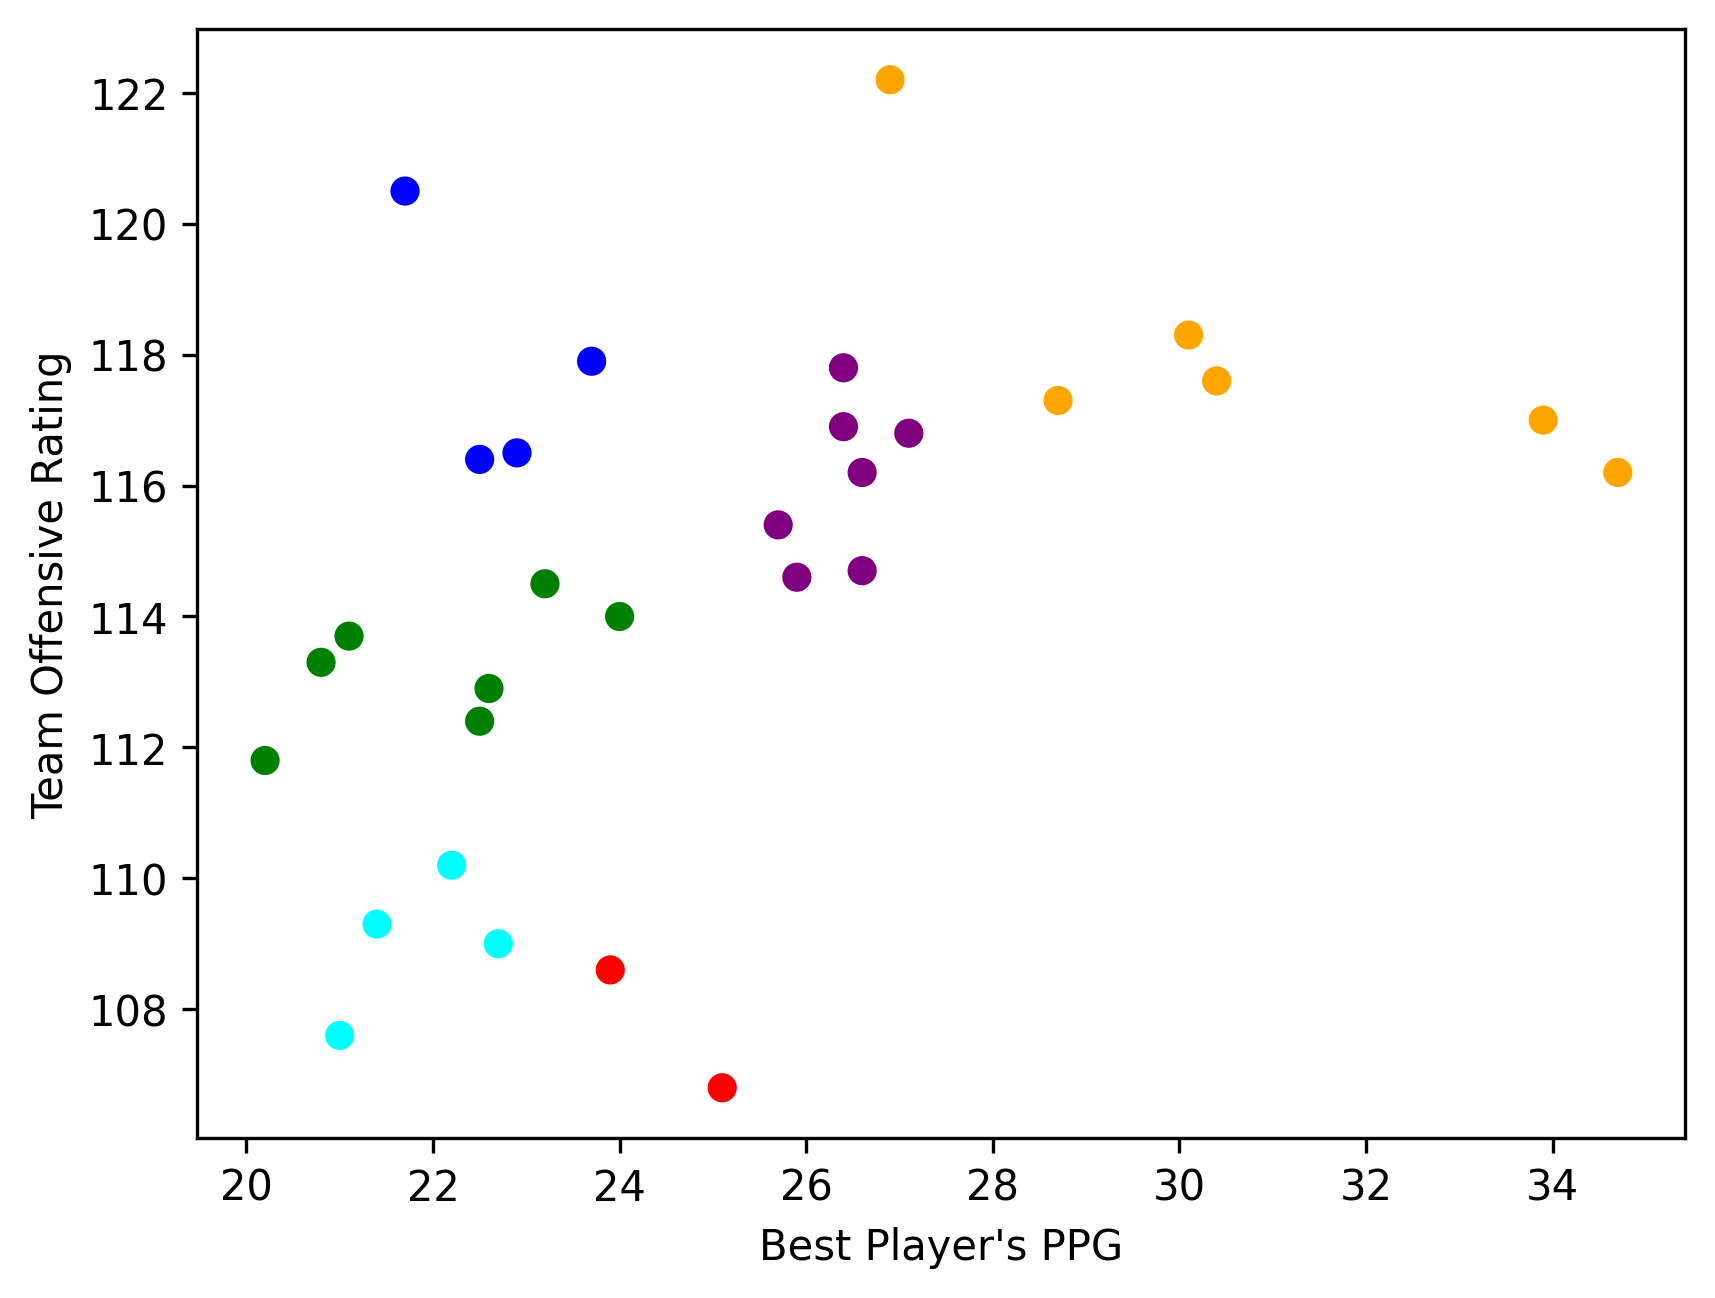
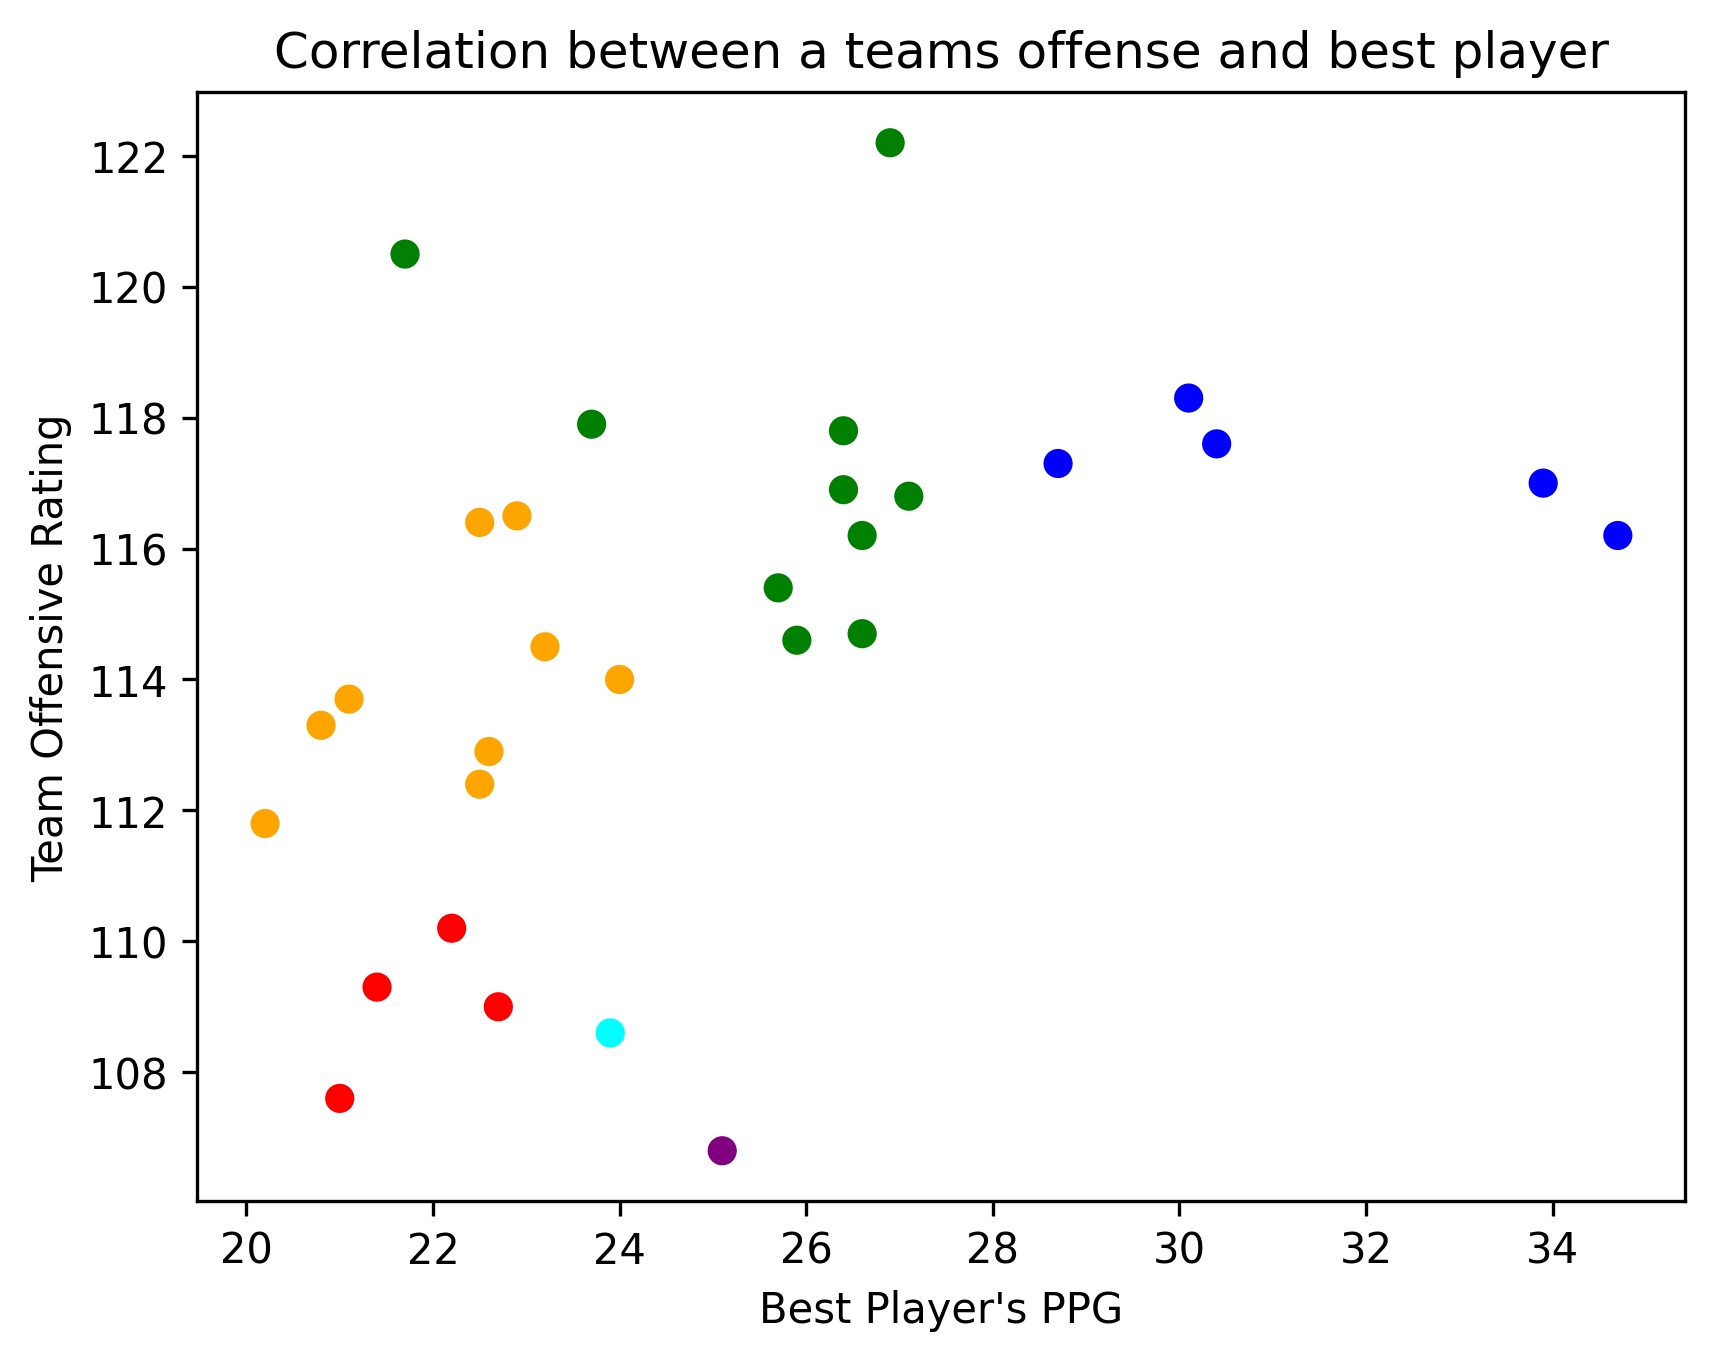
readme

diff --git a/QueriesAndML/teamsWithEliteFirstOption.py b/QueriesAndML/teamsWithEliteFirstOption.py
@@ -87,6 +87,7 @@ for i in range(3,10):
             graphColors.append(colors[j])
 
     plt.scatter(x , y, c=graphColors)
+    plt.title("Correlation between a teams offense and best player")
     plt.xlabel("Best Player's PPG")
     plt.ylabel("Team Offensive Rating")
     # plt.show()
@@ -95,6 +96,9 @@ for i in range(3,10):
     
 print(loss , range(3,10))
 plt.plot([3,4,5,6,7,8,9] , loss)
+plt.title("Number of Clusters vs Loss")
+plt.xlabel("Number of Clusters")
+plt.ylabel("MSE")
 # plt.show()
 plt.savefig("GRAPHS/lossVsClusterGraph.png",dpi=300,bbox_inches="tight")
 
